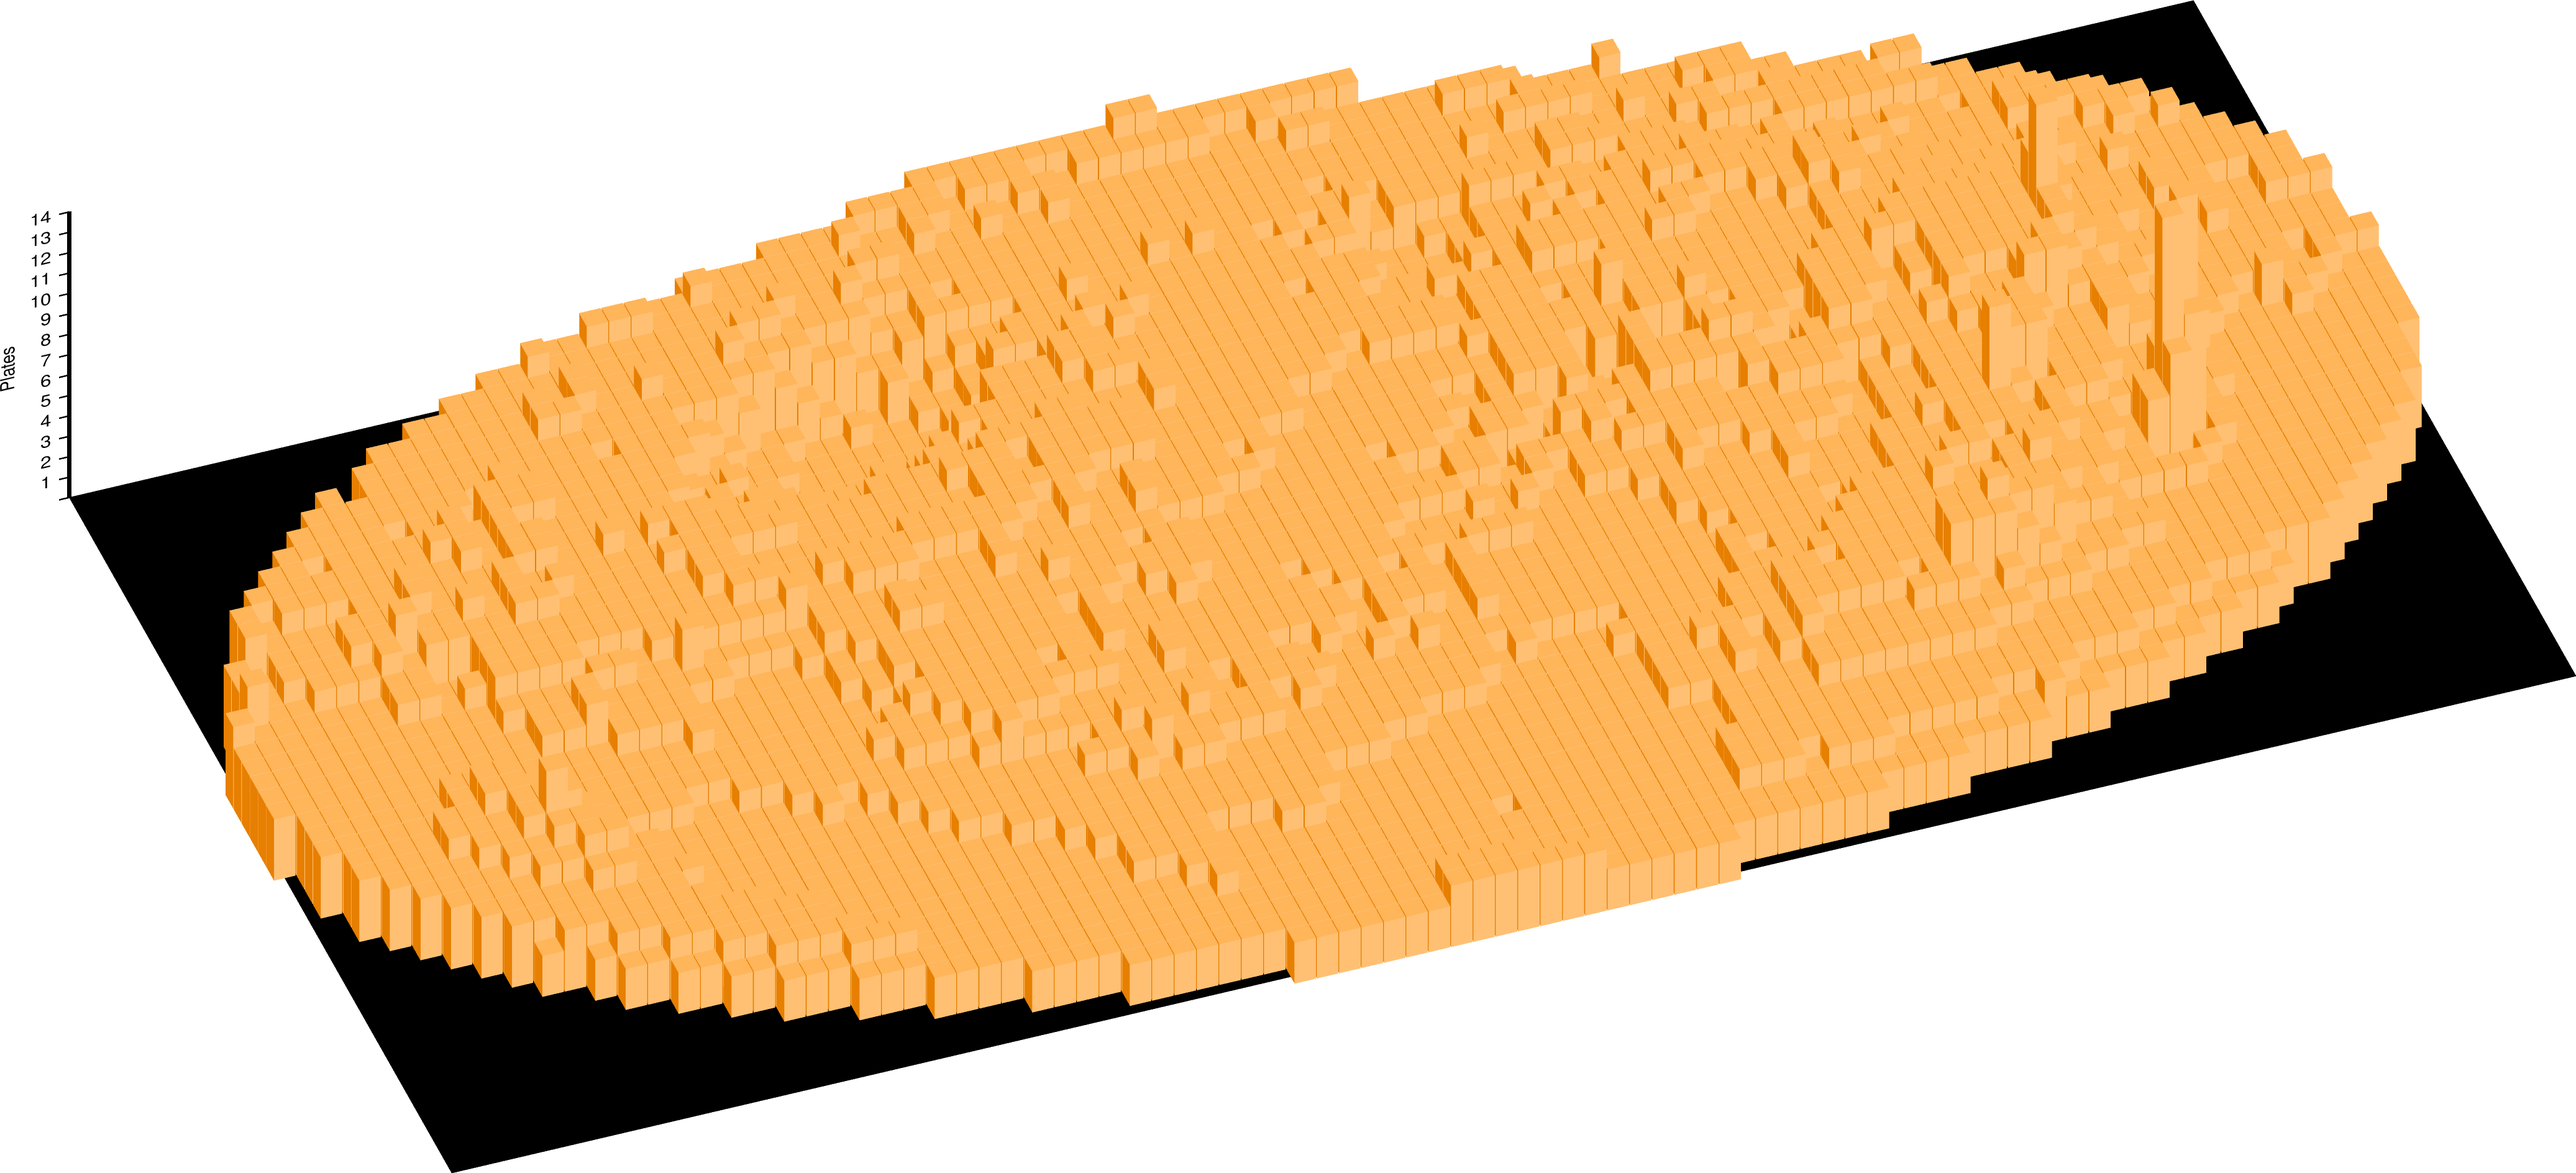
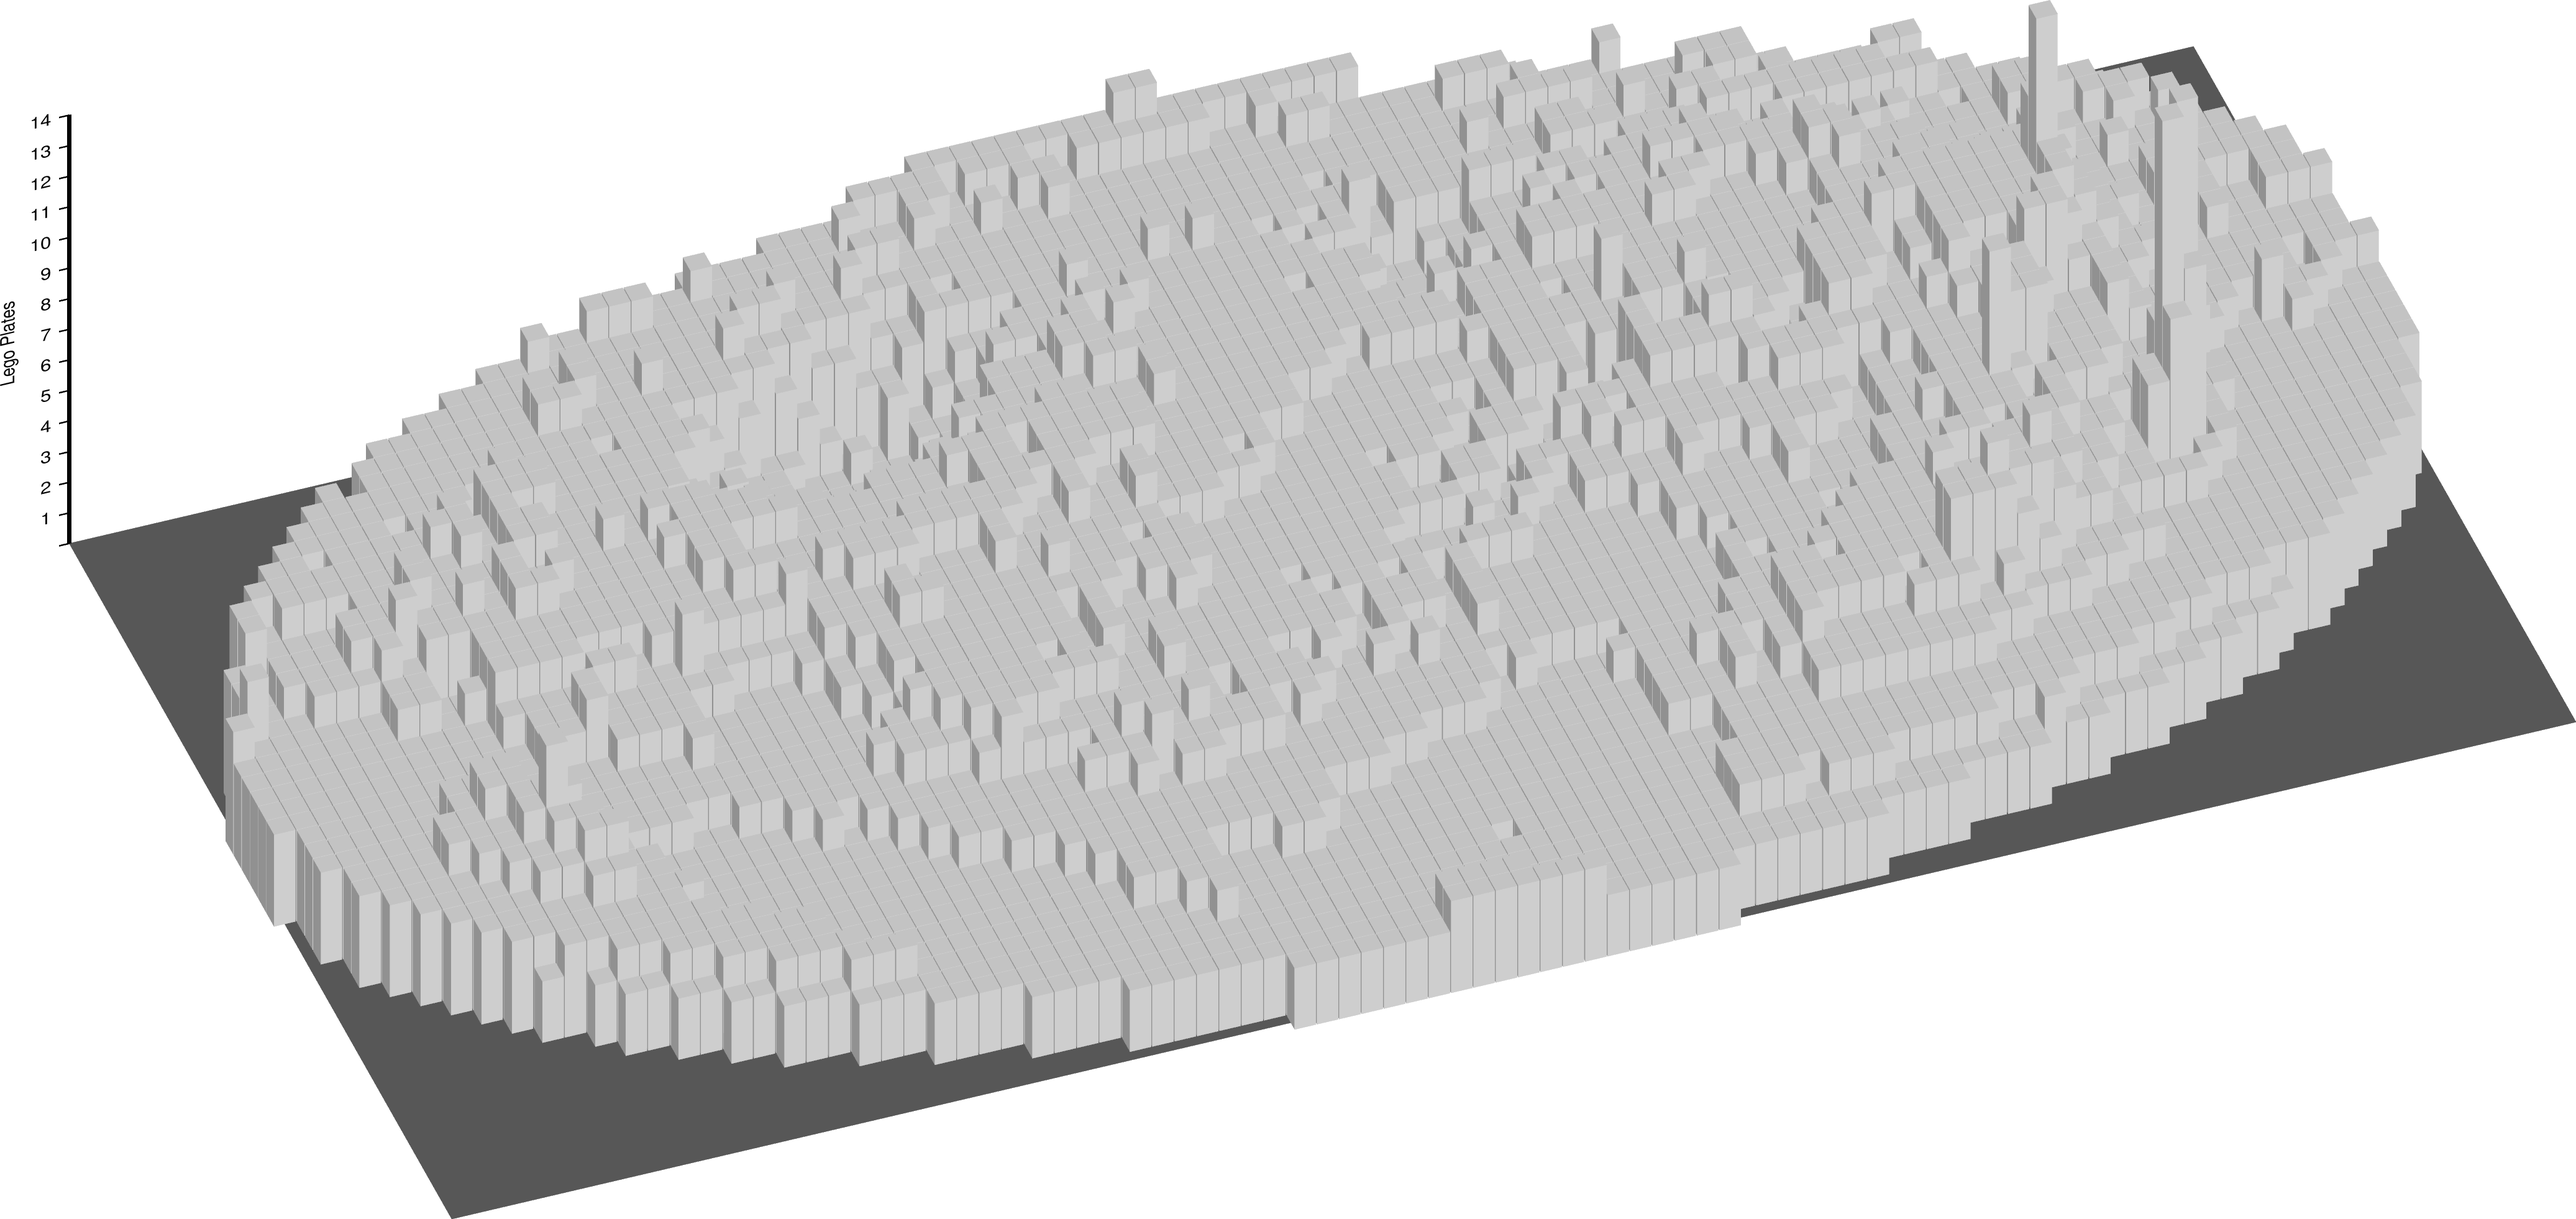
changes to viz (grey) and more

diff --git a/readme.md b/readme.md
@@ -18,9 +18,9 @@ Tools for creating geological and topographic maps of Mars for LEGO model buildi
    conda activate mars-lego-env
    ```
 
-### Running the Scripts
+## Running the Scripts
 
-#### Generate Topographic and Geologic Maps
+### Generate Topographic and Geologic Maps
 
 ```bash
 # Move to the scipts directory where all the action is
@@ -36,16 +36,19 @@ chmod u+x plot_geo_map.gmt
 ```
 These scripts allow us to project the data nicely onto a PNG file, and add on a grid to facilitate the building of the legoscape by using reference lines. *Note that the map is given a new lego-mapping coordinate system (1-96 horizontally, A-Z, a-v vertically).* 
 
-#### Count LEGO Pieces
+### Count LEGO Pieces
 
 After generating the maps, count the LEGO plates/bricks needed for each map:
 
 ```bash
 # Within the script below, make sure you set the topo_or_geo variable (it only does one of the other)
 python count_plates.py
+
+# For topographic map
+python count_pixels.py topo figures/topo_map_mars_raw_heights.tif
 ```
 
-#### Querying lat/long locations
+### Querying lat/long locations
 
 Note that there is the option (in the ) for querying the location of specific lat/long locations. In the `plot_topo_map.gmt` script mentioned above, you can inpur a coordinate (as the variable coords = 0 0, for example), and it will plot this point on the map, allowing you to find its location in the Lego Coordinate System. 
 
@@ -73,7 +76,7 @@ Note that there is the option (in the ) for querying the location of specific la
 ### Mars Topographic Data: 
 - Global digital elevation model (DEM) from Mars Orbiter Laser Altimeter (MOLA)
 - Downsampled and projected as above (but using "nearest neighbour" resampling)
-- Converted to km,
+- Converted to km
 - Data download source: https://astrogeology.usgs.gov/search/map/mars_mgs_mola_dem_463m
 - Citation: https://doi.org/10.1029/2000JE001364
 
